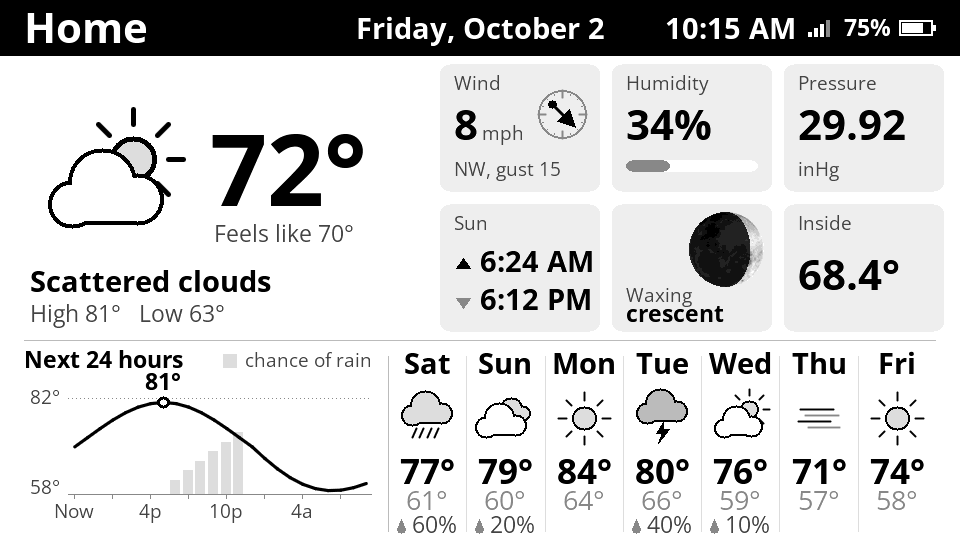
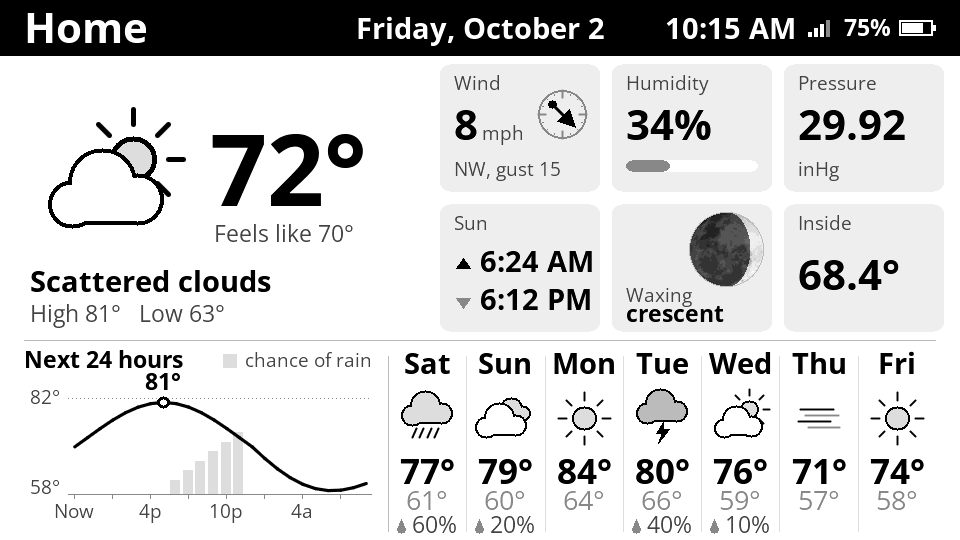
Brighter moon: tone curves tuned for e-paper, faint outline
Claude-Session: https://claude.ai/code/session_01AUPozFroVL22kzHz3JWSUB

Changed region(s): [[0.7188, 0.3852, 0.8125, 0.5333]]

diff --git a/src/icons.cpp b/src/icons.cpp
@@ -144,6 +144,12 @@ void drawSkyIcon(Canvas &c, int cx, int cy, int size, Sky sky, bool night) {
     }
 }
 
+// E-paper renders mid-greys darker than they look on a monitor, so the photo's
+// lit side is brightened (roughly gamma 0.55) and the shadow side is lifted a
+// little so craters still show in it, while staying clearly darker.
+static const uint8_t kLitCurve[16]    = { 0, 3, 5, 6, 7, 8, 9, 10, 11, 11, 12, 13, 13, 14, 14, 15 };
+static const uint8_t kShadowCurve[16] = { 1, 1, 2, 2, 2, 3, 3, 3, 4, 4, 4, 5, 5, 5, 6, 6 };
+
 void drawMoon(Canvas &c, int x0, int y0, float phase, bool southern) {
     // Photo of the full moon, with the unlit part darkened to match the phase.
     const float r = kMoonSize / 2.0f, centre = (kMoonSize - 1) / 2.0f;
@@ -160,9 +166,11 @@ void drawMoon(Canvas &c, int x0, int y0, float phase, bool southern) {
             v = (x & 1) ? (v >> 4) : (v & 0x0F);
             float sx = southern ? -dx : dx;
             bool lit = waxing ? (sx >= edge) : (sx <= -edge);
-            c.pixel(x0 + x, y0 + y, lit ? v : v / 5);   // dark side keeps a hint of detail
+            c.pixel(x0 + x, y0 + y, lit ? kLitCurve[v] : kShadowCurve[v]);
         }
     }
+    // Faint outline so a thin crescent's lit edge doesn't melt into the tile.
+    c.ring(x0 + kMoonSize / 2, y0 + kMoonSize / 2, kMoonSize / 2, 1, Tone::Soft);
 }
 
 void drawWifiBars(Canvas &c, int x, int baseline, int rssi, uint8_t tone, uint8_t off) {
